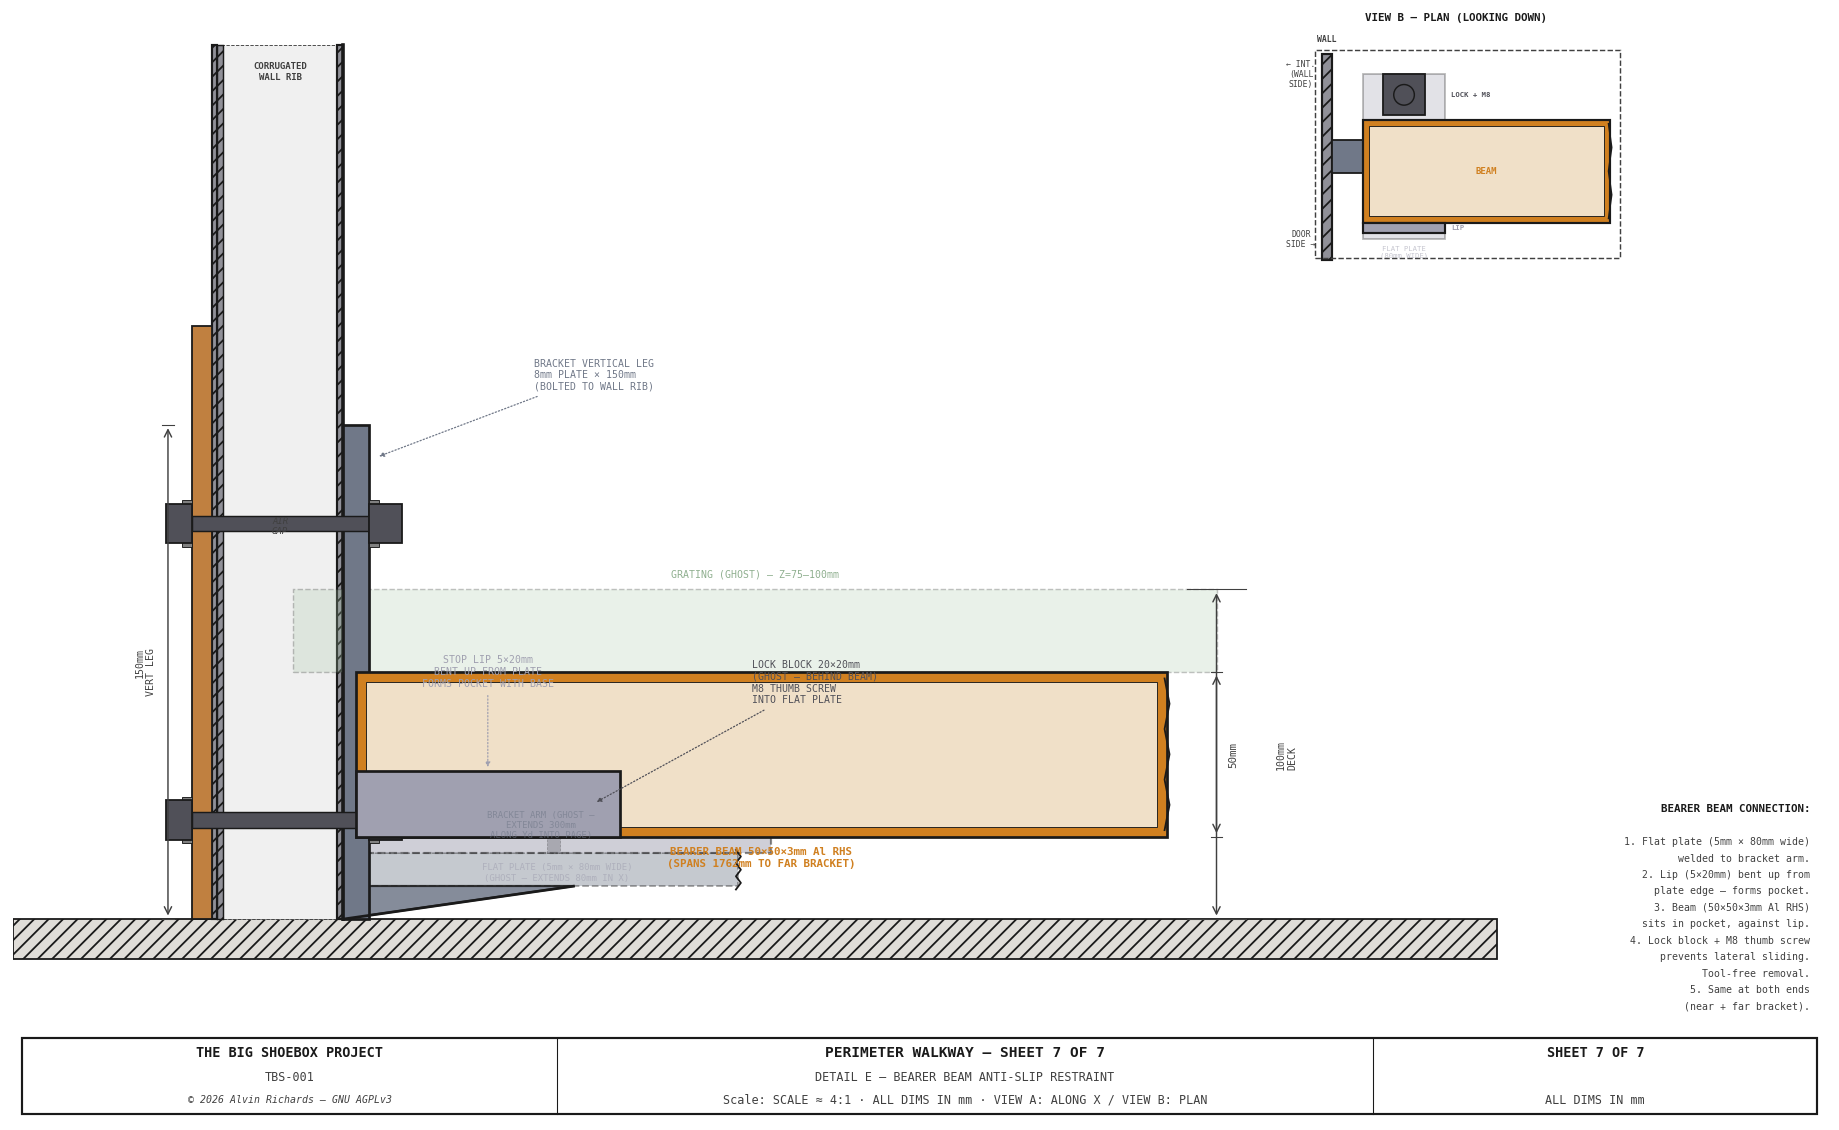
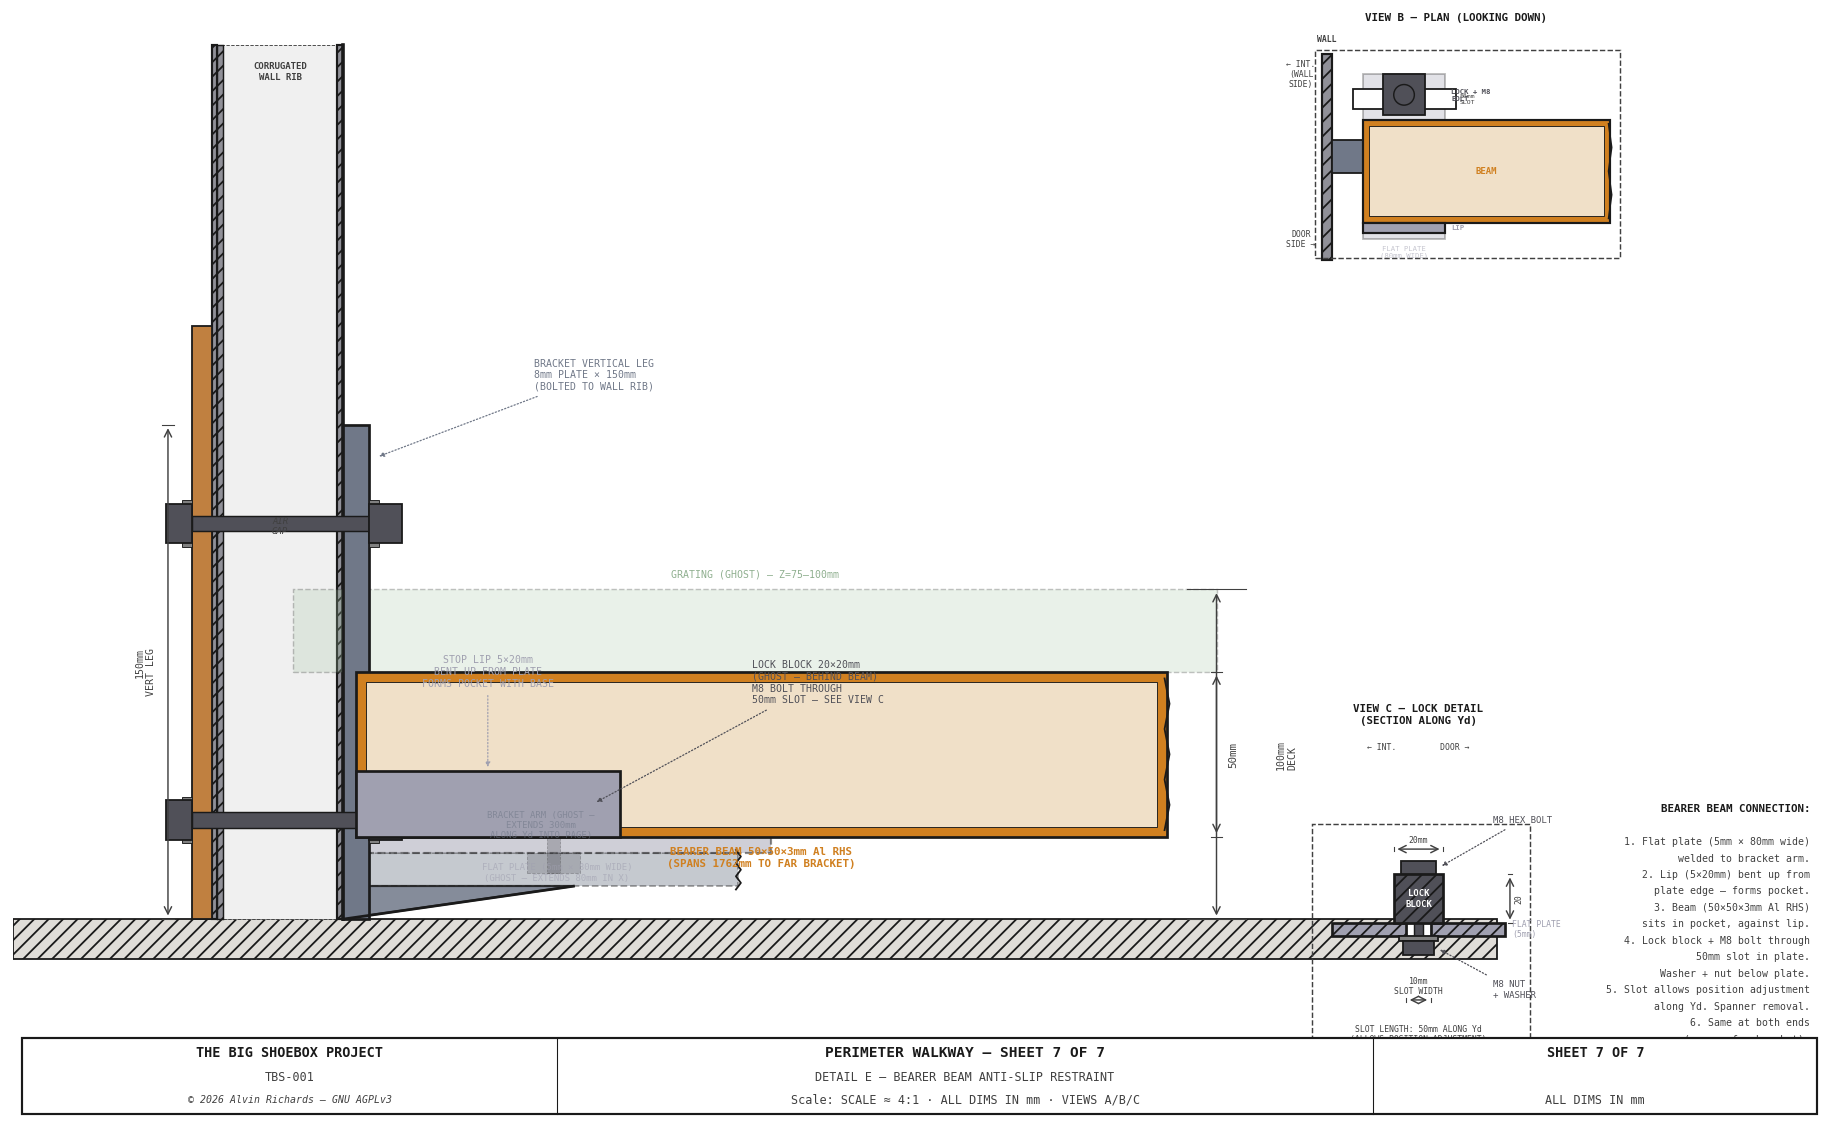
Sheet 7: replace thumb screw with slotted bolt, add View C lock detail
Lock block now secured with M8 bolt through a 50mm slot in the flat
plate, with washer and nut underneath. Slot allows position adjustment
along Yd. View B plan updated to show slot. New View C added: cross-
section through lock block showing slot, bolt, washer, and nut assembly.
Notes and engineering-diagrams.md updated to match.

diff --git a/generate_walkway_diagram.py b/generate_walkway_diagram.py
@@ -2337,27 +2337,31 @@ def sheet7():
 
     # ── Lock block (ghost — behind beam, interior/wall side in X) ──────────────
     # The lock is behind the beam in this view.
+    # Lock slides on a 50mm slot in the plate; secured with bolt + washer below.
+    SLOT_L = 50       # slot length along Yd (mm)
+    BOLT_DIA = 8      # M8 bolt
+    WASHER_DIA = 16   # washer outer diameter
+    NUT_H_LOCK = 6    # nut height
     lock_yd_mid = beam_yd_start + 60
+    # Lock block (ghost)
     ax.add_patch(Rectangle((sx(lock_yd_mid - LOCK_W / 2), sy(plate_top)),
                             sx(LOCK_W), sy(LOCK_H),
                             fc=C_BOLT, ec=C_OUT, lw=1.0, ls="--",
                             zorder=6, alpha=0.3))
-    # Thumb screw head (ghost)
-    thumb_head_h = 6
-    thumb_head_w = 14
-    ax.add_patch(Rectangle((sx(lock_yd_mid - thumb_head_w / 2),
-                             sy(plate_top + LOCK_H)),
-                            sx(thumb_head_w), sy(thumb_head_h),
-                            fc=C_BOLT, ec=C_OUT, lw=0.6, ls="--",
-                            zorder=6, alpha=0.3))
-    # Screw shank through lock into plate (ghost)
-    ax.add_patch(Rectangle((sx(lock_yd_mid - 2), sy(plate_bot)),
-                            sx(4), sy(PLATE_T + LOCK_H),
+    # Bolt shank through block and slot (ghost)
+    ax.add_patch(Rectangle((sx(lock_yd_mid - 2), sy(plate_bot - NUT_H_LOCK)),
+                            sx(4), sy(PLATE_T + LOCK_H + NUT_H_LOCK),
                             fc=C_BOLT, ec=C_OUT, lw=0.4, ls="--",
                             zorder=5, alpha=0.3))
+    # Washer + nut below plate (ghost)
+    ax.add_patch(Rectangle((sx(lock_yd_mid - WASHER_DIA / 2),
+                             sy(plate_bot - NUT_H_LOCK)),
+                            sx(WASHER_DIA), sy(NUT_H_LOCK),
+                            fc=C_BOLT, ec=C_OUT, lw=0.5, ls="--",
+                            zorder=5, alpha=0.25))
     leader(ax, sx(lock_yd_mid + LOCK_W / 2 + 2), sy(plate_top + LOCK_H / 2),
            sx(lock_yd_mid + 60), sy(plate_top + LOCK_H + 20),
-           f"LOCK BLOCK {LOCK_W}\u00d7{LOCK_H}mm\n(GHOST \u2014 BEHIND BEAM)\nM{THUMB_D} THUMB SCREW\nINTO FLAT PLATE",
+           f"LOCK BLOCK {LOCK_W}\u00d7{LOCK_H}mm\n(GHOST \u2014 BEHIND BEAM)\nM{BOLT_DIA} BOLT THROUGH\n{SLOT_L}mm SLOT \u2014 SEE VIEW C",
            color=C_BOLT, fs=5.5,
            ha="left", va="bottom", arrow_style="-|>", font=FONT)
 
@@ -2435,6 +2439,18 @@ def sheet7():
             f"FLAT PLATE\n({PLATE_W}mm WIDE)", ha="center", va="top",
             fontsize=4, color=C_PLATE, **FONT, zorder=15, alpha=0.6)
 
+    # Slot in plate (50mm long along Yd, visible through plate)
+    slot_pv_yd_start = plate_pv_yd_start + (plate_pv_yd_w - SLOT_L) / 2
+    slot_pv_w = BOLT_DIA + 2   # slot width in X (just wider than bolt)
+    slot_pv_x_ctr = plate_pv_x_end - LOCK_W / 2 - GAP  # aligned with lock center
+    ax.add_patch(Rectangle((px(slot_pv_yd_start), py(slot_pv_x_ctr - slot_pv_w / 2)),
+                            px(slot_pv_yd_start + SLOT_L) - px(slot_pv_yd_start),
+                            py(slot_pv_x_ctr + slot_pv_w / 2) - py(slot_pv_x_ctr - slot_pv_w / 2),
+                            fc="white", ec=C_OUT, lw=1.0, zorder=6))
+    ax.text(px(slot_pv_yd_start + SLOT_L + 2), py(slot_pv_x_ctr),
+            f"{SLOT_L}mm\nSLOT", ha="left", va="center", fontsize=3.5, color=C_DIM,
+            **FONT, zorder=15)
+
     # Lock block (interior/wall side = high X = top in plan view)
     lock_pv_x = plate_pv_x_end - LOCK_W
     lock_pv_yd_ctr = plate_pv_yd_start + plate_pv_yd_w / 2
@@ -2442,12 +2458,12 @@ def sheet7():
                             px(lock_pv_yd_ctr + LOCK_W / 2) - px(lock_pv_yd_ctr - LOCK_W / 2),
                             py(lock_pv_x + LOCK_W) - py(lock_pv_x),
                             fc=C_BOLT, ec=C_OUT, lw=1.0, zorder=8))
-    # Thumb screw circle
+    # Bolt circle (through slot)
     ax.add_patch(Circle((px(lock_pv_yd_ctr), py(lock_pv_x + LOCK_W / 2)),
-                         (px(THUMB_D / 2 + 1) - px(0)),
+                         (px(BOLT_DIA / 2 + 1) - px(0)),
                          fc=C_BOLT, ec=C_OUT, lw=0.8, zorder=9))
     ax.text(px(plate_pv_yd_start + plate_pv_yd_w + 3), py(lock_pv_x + LOCK_W / 2),
-            f"LOCK + M{THUMB_D}", ha="left", va="center", fontsize=4, color=C_BOLT,
+            f"LOCK + M{BOLT_DIA}\nBOLT", ha="left", va="center", fontsize=4, color=C_BOLT,
             fontweight="bold", **FONT, zorder=15)
 
     # Beam (extends from bracket outward along Yd — ONE direction only)
@@ -2489,6 +2505,129 @@ def sheet7():
                             py(pv_border_top) - py(pv_border_bot),
                             fc="none", ec=C_DIM, lw=0.8, ls="--", zorder=4))
 
+    # ══════════════════════════════════════════════════════════════════════════
+    # VIEW C — Lock block detail (cross-section looking along Yd)
+    # Horizontal = X, Vertical = Z.  Shows slot in plate, lock block,
+    # bolt through slot, washer + nut underneath.
+    # ══════════════════════════════════════════════════════════════════════════
+    VC_OX = BEAM_SHOW + 50
+    VC_OY = beam_bot - 30
+    VC_S  = 3.0   # larger scale for detail clarity
+    def cx(mm): return sx(VC_OX + mm * VC_S / S)
+    def cy(mm): return sy(VC_OY + mm * VC_S / S)
+
+    ax.text(cx(35), cy(85), "VIEW C \u2014 LOCK DETAIL\n(SECTION ALONG Yd)",
+            ha="center", va="bottom", fontsize=6, color=C_OUT,
+            fontweight="bold", **FONT, zorder=15)
+    ax.text(cx(35), cy(78),
+            "\u2190 INT.         DOOR \u2192",
+            ha="center", va="top", fontsize=4.5, color=C_DIM,
+            **FONT, zorder=15)
+
+    # Flat plate cross-section with slot
+    # Plate extends across view; slot is a gap in the plate
+    plate_cx_left = 0
+    plate_cx_right = 70
+    slot_cx_ctr = 35   # slot center in X coords
+    slot_cx_w = BOLT_DIA + 2   # slot width = 10mm
+    slot_left = slot_cx_ctr - slot_cx_w / 2
+    slot_right = slot_cx_ctr + slot_cx_w / 2
+
+    # Plate left of slot
+    ax.add_patch(Rectangle((cx(plate_cx_left), cy(0)),
+                            cx(slot_left) - cx(plate_cx_left), cy(PLATE_T) - cy(0),
+                            fc=C_PLATE, ec=C_OUT, lw=1.5, hatch="///", zorder=6))
+    # Plate right of slot
+    ax.add_patch(Rectangle((cx(slot_right), cy(0)),
+                            cx(plate_cx_right) - cx(slot_right), cy(PLATE_T) - cy(0),
+                            fc=C_PLATE, ec=C_OUT, lw=1.5, hatch="///", zorder=6))
+    # Slot opening (white gap)
+    ax.add_patch(Rectangle((cx(slot_left), cy(0)),
+                            cx(slot_right) - cx(slot_left), cy(PLATE_T) - cy(0),
+                            fc="white", ec=C_OUT, lw=0.8, zorder=5))
+    ax.text(cx(plate_cx_right + 3), cy(PLATE_T / 2),
+            f"FLAT PLATE\n({PLATE_T}mm)", ha="left", va="center",
+            fontsize=4.5, color=C_PLATE, **FONT, zorder=15)
+
+    # Lock block on top of plate
+    lock_cx_left = slot_cx_ctr - LOCK_W / 2
+    lock_cx_right = slot_cx_ctr + LOCK_W / 2
+    ax.add_patch(Rectangle((cx(lock_cx_left), cy(PLATE_T)),
+                            cx(lock_cx_right) - cx(lock_cx_left),
+                            cy(PLATE_T + LOCK_H) - cy(PLATE_T),
+                            fc=C_BOLT, ec=C_OUT, lw=1.5, hatch="///", zorder=8))
+    ax.text(cx(slot_cx_ctr), cy(PLATE_T + LOCK_H / 2),
+            f"LOCK\nBLOCK", ha="center", va="center",
+            fontsize=5, color="white", fontweight="bold",
+            **FONT, zorder=15)
+
+    # Bolt shank (through block, through slot, extends below plate)
+    bolt_shank_w = BOLT_DIA * 0.5   # visual width of shank
+    ax.add_patch(Rectangle((cx(slot_cx_ctr - bolt_shank_w / 2),
+                             cy(-NUT_H_LOCK)),
+                            cx(slot_cx_ctr + bolt_shank_w / 2) - cx(slot_cx_ctr - bolt_shank_w / 2),
+                            cy(PLATE_T + LOCK_H) - cy(-NUT_H_LOCK),
+                            fc=C_BOLT, ec=C_OUT, lw=0.8, zorder=7))
+
+    # Bolt head on top of lock block
+    bolt_head_h = 5
+    bolt_head_w = BOLT_DIA * 1.8
+    ax.add_patch(Rectangle((cx(slot_cx_ctr - bolt_head_w / 2),
+                             cy(PLATE_T + LOCK_H)),
+                            cx(slot_cx_ctr + bolt_head_w / 2) - cx(slot_cx_ctr - bolt_head_w / 2),
+                            cy(PLATE_T + LOCK_H + bolt_head_h) - cy(PLATE_T + LOCK_H),
+                            fc=C_BOLT, ec=C_OUT, lw=1.0, zorder=10))
+    leader(ax, cx(slot_cx_ctr + bolt_head_w / 2 + 1), cy(PLATE_T + LOCK_H + bolt_head_h / 2),
+           cx(slot_cx_ctr + 30), cy(PLATE_T + LOCK_H + 20),
+           f"M{BOLT_DIA} HEX BOLT",
+           color=C_BOLT, fs=5,
+           ha="left", va="bottom", arrow_style="-|>", font=FONT)
+
+    # Washer below plate
+    washer_t = 2
+    ax.add_patch(Rectangle((cx(slot_cx_ctr - WASHER_DIA / 2),
+                             cy(-washer_t)),
+                            cx(slot_cx_ctr + WASHER_DIA / 2) - cx(slot_cx_ctr - WASHER_DIA / 2),
+                            cy(0) - cy(-washer_t),
+                            fc="#808080", ec=C_OUT, lw=1.0, zorder=8))
+
+    # Nut below washer
+    nut_w = BOLT_DIA * 1.6
+    ax.add_patch(Rectangle((cx(slot_cx_ctr - nut_w / 2),
+                             cy(-washer_t - NUT_H_LOCK)),
+                            cx(slot_cx_ctr + nut_w / 2) - cx(slot_cx_ctr - nut_w / 2),
+                            cy(-washer_t) - cy(-washer_t - NUT_H_LOCK),
+                            fc=C_BOLT, ec=C_OUT, lw=1.0, zorder=8))
+    leader(ax, cx(slot_cx_ctr + nut_w / 2 + 1), cy(-washer_t - NUT_H_LOCK / 2),
+           cx(slot_cx_ctr + 30), cy(-washer_t - NUT_H_LOCK - 10),
+           f"M{BOLT_DIA} NUT\n+ WASHER",
+           color=C_BOLT, fs=5,
+           ha="left", va="top", arrow_style="-|>", font=FONT)
+
+    # Slot dimension
+    draw_dim_h(ax, cx(slot_left), cx(slot_right),
+               cy(-washer_t - NUT_H_LOCK - 18),
+               f"{slot_cx_w}mm\nSLOT WIDTH", offset=cy(3) - cy(0), fs=4.5, font=FONT)
+    # Lock block width
+    draw_dim_h(ax, cx(lock_cx_left), cx(lock_cx_right),
+               cy(PLATE_T + LOCK_H + bolt_head_h + 5),
+               f"{LOCK_W}mm", offset=cy(3) - cy(0), fs=4.5, font=FONT)
+    # Lock height
+    draw_dim_v(ax, cx(plate_cx_right + 2), cy(PLATE_T), cy(PLATE_T + LOCK_H),
+               f"{LOCK_H}", offset=cx(3) - cx(0), fs=4.5, right=True, font=FONT)
+
+    # Slot length note (into page)
+    ax.text(cx(slot_cx_ctr), cy(-washer_t - NUT_H_LOCK - 28),
+            f"SLOT LENGTH: {SLOT_L}mm ALONG Yd\n(ALLOWS POSITION ADJUSTMENT)",
+            ha="center", va="top", fontsize=4.5, color=C_DIM,
+            **FONT, zorder=15)
+
+    # View C border
+    ax.add_patch(Rectangle((cx(-8), cy(-washer_t - NUT_H_LOCK - 35)),
+                            cx(plate_cx_right + 10) - cx(-8),
+                            cy(PLATE_T + LOCK_H + bolt_head_h + 15) - cy(-washer_t - NUT_H_LOCK - 35),
+                            fc="none", ec=C_DIM, lw=0.8, ls="--", zorder=4))
+
     # ── Notes ────────────────────────────────────────────────────────────────
     notes_x = sx(YD_HI - 5)
     notes_top = sy(beam_bot + 10)
@@ -2501,10 +2640,12 @@ def sheet7():
         f"   plate edge \u2014 forms pocket.",
         f"3. Beam ({BEAM_SZ}\u00d7{BEAM_SZ}\u00d7{BEAM_T}mm Al RHS)",
         f"   sits in pocket, against lip.",
-        f"4. Lock block + M{THUMB_D} thumb screw",
-        f"   prevents lateral sliding.",
-        f"   Tool-free removal.",
-        f"5. Same at both ends",
+        f"4. Lock block + M{BOLT_DIA} bolt through",
+        f"   {SLOT_L}mm slot in plate.",
+        f"   Washer + nut below plate.",
+        f"5. Slot allows position adjustment",
+        f"   along Yd. Spanner removal.",
+        f"6. Same at both ends",
         f"   (near + far bracket).",
     ]
     for i, line in enumerate(notes):
@@ -2519,7 +2660,7 @@ def sheet7():
     title_block(ax, "SHEET 7 OF 7",
                 drawing_title="PERIMETER WALKWAY",
                 subtitle="DETAIL E \u2014 BEARER BEAM ANTI-SLIP RESTRAINT",
-                scale_note=f"SCALE \u2248 4:1 \u00b7 ALL DIMS IN mm \u00b7 VIEW A: ALONG X / VIEW B: PLAN",
+                scale_note="SCALE \u2248 4:1 \u00b7 ALL DIMS IN mm \u00b7 VIEWS A/B/C",
                 height=0.07)
 
     fig.savefig("diagrams/walkway-sheet7.png", dpi=130, bbox_inches="tight", facecolor=BG)

diff --git a/engineering-diagrams.md b/engineering-diagrams.md
@@ -253,7 +253,7 @@ Mounting varies by side:
 **Sheet 6 — Detail D: Left walkway support system — bearer beam, floor legs, bearing strip (≈3.5:1)**
 ![TBS-001 Walkway — Sheet 6: Support System Detail](assets/walkway-sheet6.png)
 
-**Sheet 7 — Detail E: Bearer beam anti-slip restraint — stop lip and thumb screw clamp (≈4:1)**
+**Sheet 7 — Detail E: Bearer beam anti-slip restraint — lip pocket, lock block with slotted bolt (≈4:1)**
 ![TBS-001 Walkway — Sheet 7: Bearer Beam Connection](assets/walkway-sheet7.png)
 
 ---
